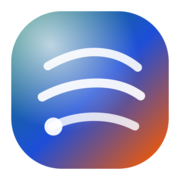
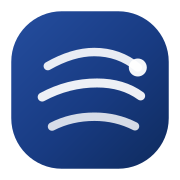
novas mudanças

diff --git a/src/components/shared/BrandMark.tsx b/src/components/shared/BrandMark.tsx
@@ -14,7 +14,7 @@ export default function BrandMark({
   tone = 'default',
 }: BrandMarkProps) {
   const gradientId = useId().replace(/:/g, '')
-  const innerGlowId = useId().replace(/:/g, '')
+  const clipId = useId().replace(/:/g, '')
   const isLight = tone === 'light'
 
   return (
@@ -28,39 +28,39 @@ export default function BrandMark({
       >
         <defs>
           <linearGradient id={gradientId} x1="8" y1="8" x2="56" y2="56" gradientUnits="userSpaceOnUse">
-            <stop stopColor="#2B7A0B" />
-            <stop offset="0.52" stopColor="#1f5f08" />
-            <stop offset="1" stopColor="#163c06" />
+            <stop stopColor="#234B9B" />
+            <stop offset="0.55" stopColor="#183B82" />
+            <stop offset="1" stopColor="#102D63" />
           </linearGradient>
-          <radialGradient id={innerGlowId} cx="0" cy="0" r="1" gradientTransform="translate(18 16) rotate(40) scale(34 28)" gradientUnits="userSpaceOnUse">
-            <stop stopColor="white" stopOpacity="0.72" />
-            <stop offset="1" stopColor="white" stopOpacity="0" />
-          </radialGradient>
+          <clipPath id={clipId}>
+            <rect x="4" y="4" width="56" height="56" rx="18" />
+          </clipPath>
         </defs>
-        <rect x="4" y="4" width="56" height="56" rx="18" fill={`url(#${gradientId})`} />
-        <rect x="4" y="4" width="56" height="56" rx="18" fill={`url(#${innerGlowId})`} />
-        <path
-          d="M17 23.5C22.833 20.1667 28.333 18.5 33.5 18.5C39.4 18.5 44.5667 20.3333 49 24"
-          stroke="white"
-          strokeOpacity="0.9"
-          strokeWidth="3"
-          strokeLinecap="round"
-        />
-        <path
-          d="M15 34.5C21.1667 31.1667 27.6667 29.5 34.5 29.5C40.6333 29.5 45.8 31.0333 50 34.1"
-          stroke="white"
-          strokeOpacity="0.92"
-          strokeWidth="3.2"
-          strokeLinecap="round"
-        />
-        <path
-          d="M18.5 45C23.0333 42.6667 28.0667 41.5 33.6 41.5C38.7333 41.5 43.5333 42.6333 48 44.9"
-          stroke="white"
-          strokeOpacity="0.82"
-          strokeWidth="3"
-          strokeLinecap="round"
-        />
-        <circle cx="19" cy="45" r="3.2" fill="white" fillOpacity="0.94" />
+        <g clipPath={`url(#${clipId})`}>
+          <rect x="4" y="4" width="56" height="56" rx="18" fill={`url(#${gradientId})`} />
+          <path
+            d="M17 23.5C22.833 20.1667 28.333 18.5 33.5 18.5C39.4 18.5 44.5667 20.3333 49 24"
+            stroke="white"
+            strokeOpacity="0.9"
+            strokeWidth="3"
+            strokeLinecap="round"
+          />
+          <circle cx="49" cy="24" r="3.2" fill="white" fillOpacity="0.95" />
+          <path
+            d="M15 34.5C21.1667 31.1667 27.6667 29.5 34.5 29.5C40.6333 29.5 45.8 31.0333 50 34.1"
+            stroke="white"
+            strokeOpacity="0.92"
+            strokeWidth="3.2"
+            strokeLinecap="round"
+          />
+          <path
+            d="M18.5 45C23.0333 42.6667 28.0667 41.5 33.6 41.5C38.7333 41.5 43.5333 42.6333 48 44.9"
+            stroke="white"
+            strokeOpacity="0.82"
+            strokeWidth="3"
+            strokeLinecap="round"
+          />
+        </g>
       </svg>
 
       {!compact && (
